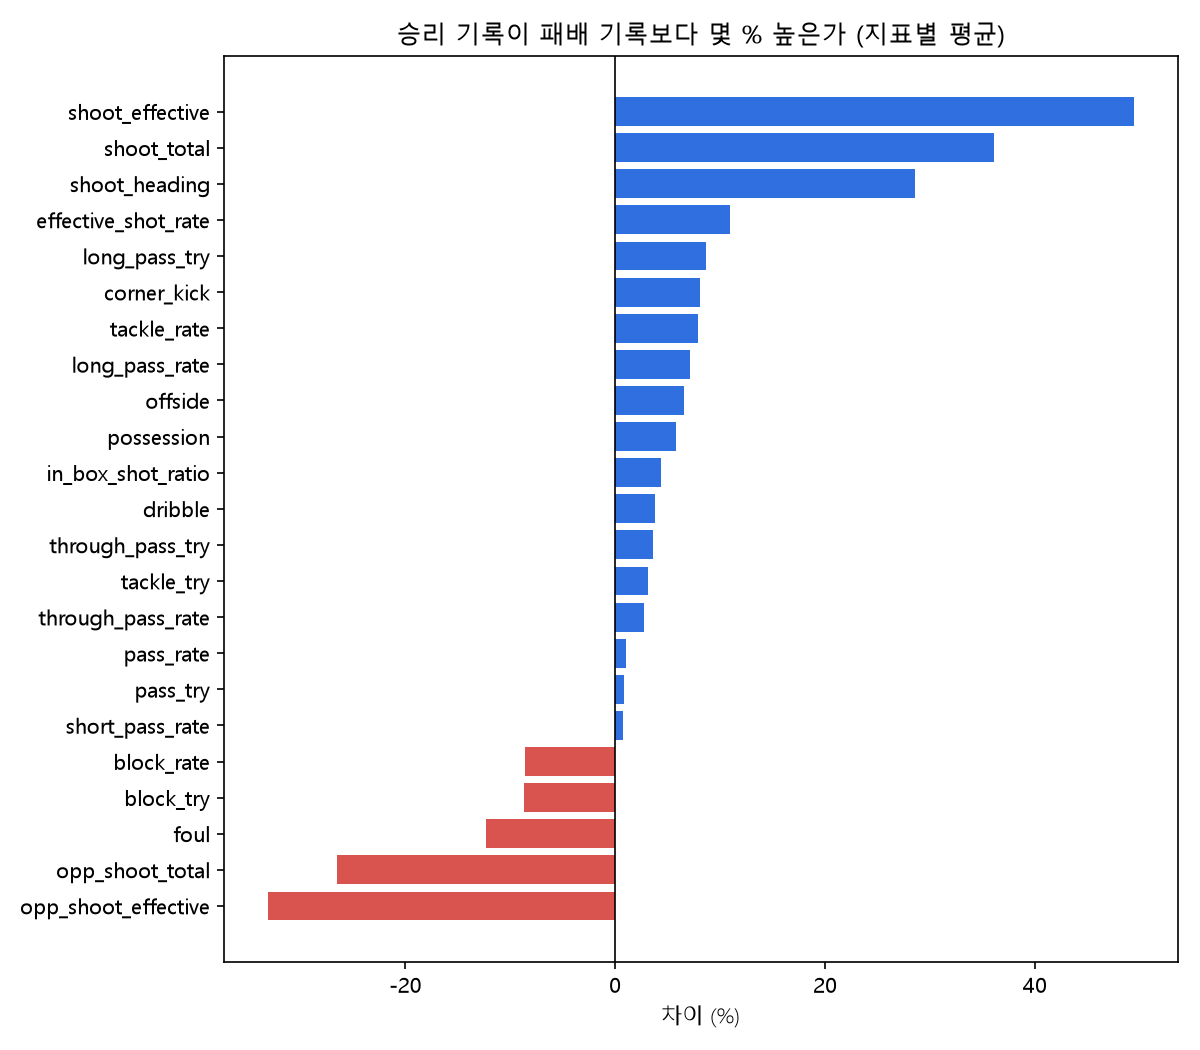
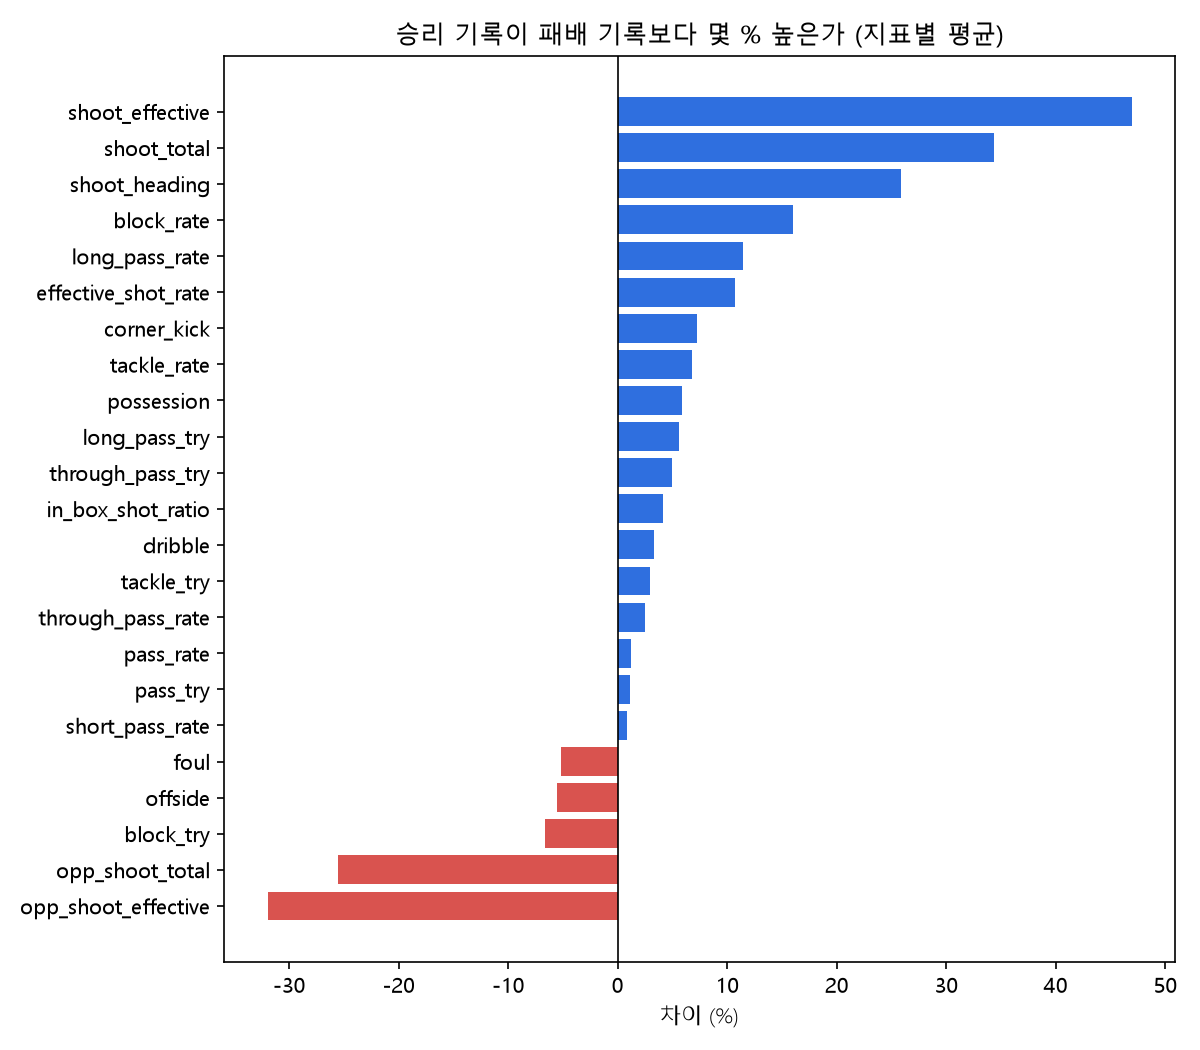
데이터 2,703경기로 갱신 (슈팅 27,839건)

diff --git a/collect_bulk.py b/collect_bulk.py
@@ -3,6 +3,8 @@ FC 온라인 공식경기 대량 수집 (눈덩이 방식)
 - 시작 유저 → 최근 경기 → 상대 유저 → 그 유저의 최근 경기 → ...
 - 결과는 data/fc_dataset.db (SQLite)에 저장. 중간에 멈춰도 다시 실행하면 이어서 수집
 - 경기 원본(JSON)은 압축해서 저장 → 전처리 단계에서 필요한 항목을 꺼내 씀
+- SEED_NICKNAMES에 넣은 시작 유저는 대기 중인 유저보다 먼저 처리함
+- 응답 헤더(x-ratelimit-remaining)로 남은 일일 한도를 보고, 0이 되면 바로 멈춤
 """
 import os
 import time
@@ -15,10 +17,12 @@ import requests
 from dotenv import load_dotenv
 
 # ---------------- 설정 ----------------
-SEED_NICKNAMES = ["우태안"]   # 시작 유저. 다른 등급 닉네임을 추가하면 등급 분포가 넓어짐
-TARGET_MATCHES = 14000        # 목표 경기 수 (경기 1개 = 유저 기록 2건 → 약 28,000건)
+# 시작 유저. 여러 등급을 섞어 넣으면 등급 분포가 넓어짐 (랭커, 중간 등급, 낮은 등급)
+SEED_NICKNAMES = ["태연", "크몽신경섭", "우태안"]
+TARGET_MATCHES = 14000        # 목표 경기 수 (경기 1개 = 유저 기록 2건)
 MATCHES_PER_USER = 20         # 유저 1명당 가져올 최근 공식경기 수
 MAX_PER_SEC = 4.5             # 초당 최대 호출 수 (한도 초과 방지)
+KEEP_REMAINING = 0            # 남겨 둘 한도 (사이트용으로 남기고 싶으면 예: 50)
 MATCHTYPE = 50                # 공식경기
 DB_PATH = os.path.join("data", "fc_dataset.db")
 # --------------------------------------
@@ -28,17 +32,30 @@ BASE = "https://open.api.nexon.com/fconline/v1"
 HEADERS = {"x-nxopen-api-key": os.getenv("NEXON_API_KEY")}
 
 _last_call = 0.0
-stats = {"calls": 0, "429": 0, "errors": 0}
+stats = {"calls": 0, "429": 0, "errors": 0, "remaining": None, "limit": None}
 
 
 class DailyLimit(Exception):
     pass
 
 
+def read_limit_headers(r):
+    """응답 헤더에서 일일 한도와 남은 횟수를 읽어 둠"""
+    try:
+        if "x-ratelimit-remaining" in r.headers:
+            stats["remaining"] = int(r.headers["x-ratelimit-remaining"])
+        if "x-ratelimit-limit" in r.headers:
+            stats["limit"] = int(r.headers["x-ratelimit-limit"])
+    except ValueError:
+        pass
+
+
 def call(path, params):
-    """초당 호출 수를 지키며 API 호출. 429가 계속되면 일일 한도로 보고 멈춤"""
+    """초당 호출 수를 지키며 API 호출. 남은 일일 한도가 없으면 호출하지 않고 멈춤"""
     global _last_call
-    for attempt in range(6):
+    for attempt in range(4):
+        if stats["remaining"] is not None and stats["remaining"] <= KEEP_REMAINING:
+            raise DailyLimit(f"오늘 남은 한도가 {stats['remaining']}회입니다")
         wait = (1.0 / MAX_PER_SEC) - (time.time() - _last_call)
         if wait > 0:
             time.sleep(wait)
@@ -50,10 +67,15 @@ def call(path, params):
             stats["errors"] += 1
             time.sleep(2)
             continue
+        read_limit_headers(r)
         if r.status_code == 200:
             return r.json()
         if r.status_code == 429:
             stats["429"] += 1
+            # 일일 한도를 다 쓴 경우: 재시도하지 않고 바로 멈춤
+            if stats["remaining"] is not None and stats["remaining"] <= 0:
+                raise DailyLimit("오늘 일일 한도를 다 썼습니다")
+            # 순간 호출이 몰린 경우: 잠깐 쉬고 재시도
             time.sleep(2 * (attempt + 1))
             continue
         stats["errors"] += 1
@@ -83,32 +105,49 @@ def fetch_division(ouid):
     return None, None
 
 
+def next_user(conn, seed_ouids):
+    """아직 처리 안 한 시작 유저가 있으면 먼저, 없으면 대기 순서대로"""
+    for ouid in seed_ouids:
+        row = conn.execute("SELECT processed FROM users WHERE ouid = ?", (ouid,)).fetchone()
+        if row and row[0] == 0:
+            return ouid
+    row = conn.execute("SELECT ouid FROM users WHERE processed = 0 "
+                       "ORDER BY rowid LIMIT 1").fetchone()
+    return row[0] if row else None
+
+
+def remaining_text():
+    if stats["remaining"] is None:
+        return "남은 한도 알 수 없음"
+    return f"남은 한도 {stats['remaining']:,}/{stats['limit'] or '?'}회"
+
+
 def main():
     os.makedirs("data", exist_ok=True)
     conn = sqlite3.connect(DB_PATH)
     init_db(conn)
-
-    for nick in SEED_NICKNAMES:
-        data = call("/id", {"nickname": nick})
-        if data and data.get("ouid"):
-            add_user(conn, data["ouid"])
-            print(f"시작 유저 추가: {nick}")
-        else:
-            print(f"시작 유저를 찾지 못함: {nick}")
-    conn.commit()
-
     count = conn.execute("SELECT COUNT(*) FROM matches").fetchone()[0]
-    print(f"이미 저장된 경기: {count}개 / 목표 {TARGET_MATCHES}개\n")
-    start, start_count = time.time(), count
 
     try:
+        seed_ouids = []
+        for nick in SEED_NICKNAMES:
+            data = call("/id", {"nickname": nick})
+            if data and data.get("ouid"):
+                add_user(conn, data["ouid"])
+                seed_ouids.append(data["ouid"])
+                print(f"시작 유저 추가: {nick}")
+            else:
+                print(f"시작 유저를 찾지 못함: {nick} (닉네임이 바뀌었을 수 있음)")
+        conn.commit()
+
+        print(f"이미 저장된 경기: {count:,}개 / 목표 {TARGET_MATCHES:,}개 | {remaining_text()}\n")
+        start, start_count = time.time(), count
+
         while count < TARGET_MATCHES:
-            row = conn.execute("SELECT ouid FROM users WHERE processed = 0 "
-                               "ORDER BY rowid LIMIT 1").fetchone()
-            if not row:
+            ouid = next_user(conn, seed_ouids)
+            if not ouid:
                 print("더 따라갈 유저가 없습니다. 시작 유저를 추가해 주세요.")
                 break
-            ouid = row[0]
 
             div, ach = fetch_division(ouid)
             mids = call("/user/match", {"ouid": ouid, "matchtype": MATCHTYPE,
@@ -131,20 +170,16 @@ def main():
 
                 if count % 100 == 0:
                     conn.commit()
-                    done = count - start_count
-                    rate = done / max(time.time() - start, 1)
-                    eta = (TARGET_MATCHES - count) / rate / 60 if rate else 0
                     print(f"[{datetime.now():%H:%M:%S}] 경기 {count:,}/{TARGET_MATCHES:,} "
-                          f"| 호출 {stats['calls']:,} | 429 {stats['429']} "
-                          f"| 남은 시간 약 {eta:.0f}분")
+                          f"| 이번 실행 +{count - start_count:,} | {remaining_text()}")
 
             conn.execute("UPDATE users SET processed = 1, division = ?, achievement_date = ? "
                          "WHERE ouid = ?", (div, ach, ouid))
             conn.commit()
 
     except DailyLimit as e:
-        print(f"\n수집 중단: {e}")
-        print("호출 한도에 걸린 것 같습니다. 나중에 다시 실행하면 이어서 수집합니다.")
+        print(f"\n수집 종료: {e}")
+        print("자정 이후 다시 실행하면 이어서 수집합니다.")
     except KeyboardInterrupt:
         print("\n사용자가 중단했습니다. 다시 실행하면 이어서 수집합니다.")
     finally:
@@ -152,7 +187,8 @@ def main():
         users = conn.execute("SELECT COUNT(*), SUM(processed) FROM users").fetchone()
         print(f"\n저장된 경기: {count:,}개 (유저 기록 약 {count * 2:,}건)")
         print(f"발견한 유저: {users[0]:,}명 / 등급 확인: {users[1] or 0:,}명")
-        print(f"총 호출: {stats['calls']:,}회 / 429: {stats['429']}회 / 기타 오류: {stats['errors']}회")
+        print(f"이번 실행 호출: {stats['calls']:,}회 / 429: {stats['429']}회 / 기타 오류: {stats['errors']}회")
+        print(remaining_text())
         conn.close()
 
 

diff --git a/quota_check.py b/quota_check.py
@@ -1,0 +1,40 @@
+"""
+넥슨 Open API 일일 한도 확인
+- 가벼운 호출 1회를 보내서 지금 한도가 남아 있는지 확인
+- 응답 헤더에 한도 관련 정보가 있으면 같이 출력
+- 주의: 확인할 때마다 한도 1회를 씀
+"""
+import os
+from datetime import datetime
+
+import requests
+from dotenv import load_dotenv
+
+load_dotenv()
+key = os.getenv("NEXON_API_KEY")
+if not key:
+    raise SystemExit(".env에서 NEXON_API_KEY를 읽지 못했습니다.")
+
+r = requests.get(
+    "https://open.api.nexon.com/fconline/v1/id",
+    headers={"x-nxopen-api-key": key},
+    params={"nickname": "우태안"},
+    timeout=15,
+)
+
+print(f"확인 시각: {datetime.now():%Y-%m-%d %H:%M:%S}")
+print(f"키 앞부분: {key[:8]}...")
+print(f"응답 코드: {r.status_code}")
+
+if r.status_code == 200:
+    print("→ 한도가 남아 있습니다. collect_bulk.py를 실행해도 됩니다.")
+elif r.status_code == 429:
+    print("→ 오늘 한도를 다 썼습니다. 자정 이후 다시 확인하세요.")
+    print("   응답 내용:", r.text[:200])
+else:
+    print("→ 한도 문제가 아닌 다른 오류입니다:", r.text[:200])
+
+# 한도·호출 수 관련 헤더가 있으면 출력
+limit_headers = {k: v for k, v in r.headers.items()
+                 if any(w in k.lower() for w in ("limit", "remain", "rate", "quota", "reset"))}
+print("\n한도 관련 응답 헤더:", limit_headers or "없음")

diff --git a/docs/eda_summary.md b/docs/eda_summary.md
@@ -2,70 +2,70 @@
 
 |                  |   mean |   std |   min |    50% |    max |
 |:-----------------|-------:|------:|------:|-------:|-------:|
-| possession       |  50    |  5.25 | 33    |  50    |  67    |
-| shoot_total      |   6.28 |  2.68 |  0    |   6    |  17    |
-| shoot_effective  |   4.88 |  2.31 |  0    |   5    |  14    |
-| pass_try         | 107.54 | 21.95 | 54    | 106    | 219    |
-| pass_rate        |   0.88 |  0.04 |  0.75 |   0.88 |   0.97 |
-| through_pass_try |  16.64 |  6.79 |  1    |  16    |  45    |
-| tackle_try       |  14.38 |  5.81 |  2    |  14    |  48    |
-| goals_for        |   2.7  |  1.52 |  0    |   3    |   8    |
-| goals_against    |   2.7  |  1.52 |  0    |   3    |   8    |
+| possession       |  50    |  5.24 | 33    |  50    |  67    |
+| shoot_total      |   6.27 |  2.64 |  0    |   6    |  17    |
+| shoot_effective  |   4.89 |  2.26 |  0    |   5    |  15    |
+| pass_try         | 107.69 | 21.91 | 53    | 105    | 219    |
+| pass_rate        |   0.88 |  0.04 |  0.72 |   0.88 |   0.98 |
+| through_pass_try |  16.46 |  7.03 |  1    |  16    |  65    |
+| tackle_try       |  14.88 |  6.1  |  1    |  14    |  48    |
+| goals_for        |   2.7  |  1.51 |  0    |   3    |  10    |
+| goals_against    |   2.7  |  1.51 |  0    |   3    |  10    |
 
 ### 원본 결측치
 
 |                      |   결측 건수 |
 |:---------------------|--------:|
-| division             |     864 |
-| division_name        |     864 |
-| controller           |      22 |
-| goals_for            |      22 |
-| goals_against        |      22 |
-| possession           |      22 |
-| average_rating       |      22 |
-| foul                 |      22 |
-| yellow_cards         |      22 |
-| red_cards            |      22 |
-| corner_kick          |      22 |
-| offside              |      22 |
-| dribble              |      22 |
-| shoot_total          |      22 |
-| shoot_effective      |      22 |
-| shoot_in_penalty     |      22 |
-| shoot_out_penalty    |      22 |
-| shoot_heading        |      22 |
-| pass_try             |      22 |
-| pass_success         |      22 |
-| short_pass_try       |      22 |
-| short_pass_success   |      22 |
-| long_pass_try        |      22 |
-| long_pass_success    |      22 |
-| through_pass_try     |      22 |
-| through_pass_success |      22 |
-| tackle_try           |      22 |
-| tackle_success       |      22 |
-| block_try            |      22 |
-| block_success        |      22 |
-| opp_shoot_total      |      22 |
-| opp_shoot_effective  |      22 |
+| division             |    2540 |
+| division_name        |    2540 |
+| controller           |      78 |
+| goals_for            |      78 |
+| goals_against        |      78 |
+| possession           |      78 |
+| average_rating       |      78 |
+| foul                 |      78 |
+| yellow_cards         |      78 |
+| red_cards            |      78 |
+| corner_kick          |      78 |
+| offside              |      78 |
+| dribble              |      78 |
+| shoot_total          |      78 |
+| shoot_effective      |      78 |
+| shoot_in_penalty     |      78 |
+| shoot_out_penalty    |      78 |
+| shoot_heading        |      78 |
+| pass_try             |      78 |
+| pass_success         |      78 |
+| short_pass_try       |      78 |
+| short_pass_success   |      78 |
+| long_pass_try        |      78 |
+| long_pass_success    |      78 |
+| through_pass_try     |      78 |
+| through_pass_success |      78 |
+| tackle_try           |      78 |
+| tackle_success       |      78 |
+| block_try            |      78 |
+| block_success        |      78 |
+| opp_shoot_total      |      78 |
+| opp_shoot_effective  |      78 |
 
 ### 승리와 상관이 큰 지표 상위 5개
 
 |                     |   |상관계수| |
 |:--------------------|---------:|
-| shoot_effective     |    0.42  |
-| opp_shoot_effective |    0.42  |
-| opp_shoot_total     |    0.357 |
-| shoot_total         |    0.357 |
-| possession          |    0.267 |
+| shoot_effective     |    0.409 |
+| opp_shoot_effective |    0.409 |
+| opp_shoot_total     |    0.346 |
+| shoot_total         |    0.346 |
+| possession          |    0.272 |
 
 ### 슈팅 거리별 골 성공률
 
 | dist_bin    |   골 성공률(%) |   슈팅 수 |
 |:------------|-----------:|-------:|
-| (0.0, 0.05] |       86.5 |     74 |
-| (0.05, 0.1] |       62.2 |   1880 |
-| (0.1, 0.15] |       49.1 |   3578 |
-| (0.15, 0.2] |       31.9 |   2664 |
-| (0.2, 0.3]  |       21.6 |   1039 |
-| (0.3, 1.5]  |        5.3 |    243 |
+| (0.0, 0.05] |       81.9 |    204 |
+| (0.05, 0.1] |       62.9 |   5226 |
+| (0.1, 0.15] |       50.2 |  10355 |
+| (0.15, 0.2] |       32.5 |   8093 |
+| (0.2, 0.3]  |       20.9 |   3266 |
+| (0.3, 1.5]  |        4.5 |    695 |
